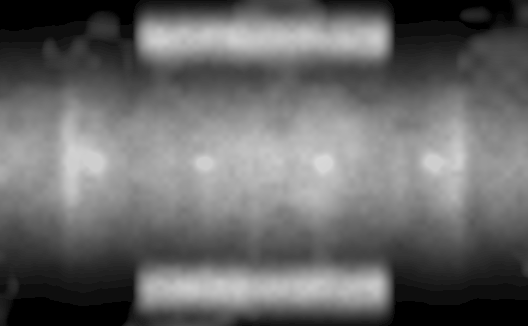
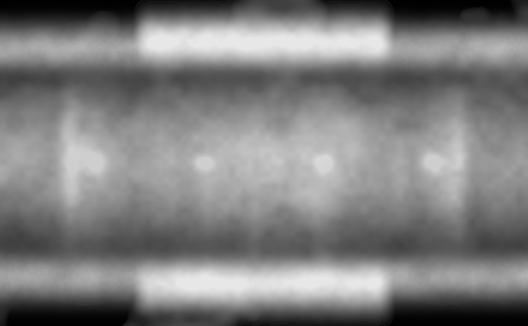
Wear the border and the lettering, pass both gates, and hand the chains contract to Broadcast
The NFL border read as a clean slab: the paint distance field now carries a
ragged edge and graded scuffs, heaviest where the chain crew and players
walk, averaged with its half turn so the half texture still holds the field.
Grime runs along both sidelines, and a turf overlay stands blades up through
every line and each club's name. Field is eleven parts, 39.6 MB of 40.

The field-art types move to FieldArtSpec.swift so verify_scene.swift, which
compiles SceneSpec.swift alone, builds again; it passes 23,376 assertions and
contrast_check passes. docs/actors/field-sideline.md records that Sideline
draws the chains and down box and Broadcast must not.

Claude-Session: https://claude.ai/code/session_01GhgGEfAfuwas1ro6oaf8sP

Changed region(s): [[0.0, 0.0307, 1.0, 0.2454], [0.0, 0.7669, 1.0, 0.9509]]

diff --git a/apple/FantasyEdge/Sources/Stadium/Actors/Field/FieldActor.swift b/apple/FantasyEdge/Sources/Stadium/Actors/Field/FieldActor.swift
@@ -14,8 +14,8 @@ import simd
 /// arrows, limit and coaching lines - costs two draw parts, and the edge is
 /// exact at any distance because it is a threshold, not a blurred mask.
 ///
-/// Draw parts: surround 1, stripes 2, end zones 2, ring 1, paint 2, wear 1,
-/// lettering 1 - ten.
+/// Draw parts: surround 1, stripes 2, end zones 2, ring 1, paint 2,
+/// lettering 1, grass through the paint 1, wear 1 - eleven.
 @MainActor
 final class FieldActor: StadiumActor {
     let name = "field"
@@ -65,7 +65,7 @@ final class FieldActor: StadiumActor {
         wearEntity.isEnabled = false
         // Over the paint as well as the grass: where the turf is trampled the
         // lines are too, and a line as clean at the hash as at the wall is CG.
-        add(wearEntity, order: 5)
+        add(wearEntity, order: 6)
 
         // End zones: club paint over the grass.
         for (team, x0, x1) in [(s.teams.home, -f.endZone, 0.0), (s.teams.away, f.length, f.length + f.endZone)] {
@@ -110,6 +110,18 @@ final class FieldActor: StadiumActor {
         add(white, order: 4)
         add(yellow, order: 4)
 
+        // Grass through the paint: the turf again, over the paint and the
+        // lettering, shown only where blades stand up through them. Over bare
+        // turf it is turf on turf, so it only reads where there is paint.
+        if let through = a.texture("field.turfGrassThrough") {
+            var over = MeshBuilder()
+            over.floor(x0: K.x0, x1: K.x1, z0: -(half + (K.y1 - f.width)), z1: half + (K.y1 - f.width),
+                       y: L.art + 0.002, tile: tile)
+            var m = turf(T.stripeTint[0], T.stripeRoughness[0], albedo, rough, normals[0], T)
+            m.blending = .transparent(opacity: .init(scale: Float(P.grassThrough), texture: StadiumLook.repeating(through)))
+            add(over.entity("paint.grass", m), order: 5)
+        }
+
         // Lettering: each club's name across its end zone, the home name at midfield.
         if let art = f.art, let font = FieldGlyphs.load(art.glyphs) {
             var letters = MeshBuilder()
@@ -118,7 +130,7 @@ final class FieldActor: StadiumActor {
             var m = PhysicallyBasedMaterial()
             m.baseColor = .init(tint: StadiumLook.color(P.white))
             m.roughness = .init(floatLiteral: Float(P.roughness))
-            add(letters.entity("lettering", m), order: 6)
+            add(letters.entity("lettering", m), order: 4)
         }
 
         // The league's maps, loaded once and then handed to the meshes waiting for them.

diff --git a/apple/FantasyEdge/Sources/Stadium/Actors/Field/FieldArt.swift b/apple/FantasyEdge/Sources/Stadium/Actors/Field/FieldArt.swift
@@ -1,53 +1,9 @@
 import Foundation
 import simd
 
-// What the scene says about the painted art that changes per game, and the
-// glyph shapes it is set in. The scene lays it out (fantasyedge/scene.py
-// `field_art`); this file only applies the layout, so the web and Android
-// draw the same letters in the same places.
-
-extension SceneSpec {
-    /// A line of text on the grass. A glyph point (gx, gy), in em units with
-    /// cap height 1, lands at origin + (gx * along + gy * up) * capHeight in
-    /// (x, z) yards.
-    public struct ArtText: Decodable, Equatable, Sendable {
-        public let text: String
-        public let capHeight: Double
-        public let origin: [Double]
-        public let along: [Double]
-        public let up: [Double]
-        public let tint: String
-    }
-
-    public struct EndZoneArt: Decodable, Equatable, Sendable {
-        public let side: String
-        public let text: String
-        public let capHeight: Double
-        public let origin: [Double]
-        public let along: [Double]
-        public let up: [Double]
-        public let tint: String
-
-        var layout: ArtText {
-            ArtText(text: text, capHeight: capHeight, origin: origin, along: along, up: up, tint: tint)
-        }
-    }
-
-    public struct MidfieldArt: Decodable, Equatable, Sendable {
-        public let center: [Double]
-        public let outer: Double
-        public let inner: Double
-        public let tint: String
-        public let text: ArtText?
-    }
-
-    public struct FieldArt: Decodable, Equatable, Sendable {
-        public let glyphs: String
-        public let tracking: Double
-        public let endZones: [EndZoneArt]
-        public let midfield: MidfieldArt
-    }
-}
+// The glyph shapes the field's art is set in, and the one step that applies
+// the scene's layout to them (types in FieldArtSpec.swift), so the web and
+// Android draw the same letters in the same places.
 
 /// The field font: Graduate (SIL OFL 1.1) as triangles, from
 /// assets/actors/field/fonts/glyphs.json.

diff --git a/apple/FantasyEdge/Sources/Stadium/Actors/Field/FieldArtSpec.swift b/apple/FantasyEdge/Sources/Stadium/Actors/Field/FieldArtSpec.swift
@@ -1,0 +1,48 @@
+import Foundation
+
+// What the scene says about the painted art that changes per game
+// (fantasyedge/scene.py `field_art`). Types only, with no RealityKit, so
+// apple/verify_scene.swift can decode a scene with them.
+
+extension SceneSpec {
+    /// A line of text on the grass. A glyph point (gx, gy), in em units with
+    /// cap height 1, lands at origin + (gx * along + gy * up) * capHeight in
+    /// (x, z) yards.
+    public struct ArtText: Decodable, Equatable, Sendable {
+        public let text: String
+        public let capHeight: Double
+        public let origin: [Double]
+        public let along: [Double]
+        public let up: [Double]
+        public let tint: String
+    }
+
+    public struct EndZoneArt: Decodable, Equatable, Sendable {
+        public let side: String
+        public let text: String
+        public let capHeight: Double
+        public let origin: [Double]
+        public let along: [Double]
+        public let up: [Double]
+        public let tint: String
+
+        var layout: ArtText {
+            ArtText(text: text, capHeight: capHeight, origin: origin, along: along, up: up, tint: tint)
+        }
+    }
+
+    public struct MidfieldArt: Decodable, Equatable, Sendable {
+        public let center: [Double]
+        public let outer: Double
+        public let inner: Double
+        public let tint: String
+        public let text: ArtText?
+    }
+
+    public struct FieldArt: Decodable, Equatable, Sendable {
+        public let glyphs: String
+        public let tracking: Double
+        public let endZones: [EndZoneArt]
+        public let midfield: MidfieldArt
+    }
+}

diff --git a/apple/verify_scene.swift b/apple/verify_scene.swift
@@ -15,6 +15,7 @@
 //         apple/FantasyEdge/Sources/Stadium/SceneSpec.swift \
 //         apple/FantasyEdge/Sources/Stadium/SceneLook.swift \
 //         apple/FantasyEdge/Sources/Stadium/Actors/*/*Look.swift \
+//         apple/FantasyEdge/Sources/Stadium/Actors/Field/FieldArtSpec.swift \
 //         apple/FantasyEdge/Sources/Stadium/SceneMath.swift \
 //         apple/verify_scene.swift && /tmp/verify-scene /tmp/scenes/*.json
 //

diff --git a/apple/FantasyEdge/Sources/Stadium/Actors/Field/FieldLook.swift b/apple/FantasyEdge/Sources/Stadium/Actors/Field/FieldLook.swift
@@ -41,6 +41,8 @@ extension SceneSpec.Look {
         public let roughness: Double
         public let threshold: Double
         public let endZoneOpacity: Double
+        /// How strongly blades show through paint and lettering.
+        public let grassThrough: Double
     }
 
     public struct FieldLift: Decodable, Equatable, Sendable {

diff --git a/tools/blender/field/make_markings.py b/tools/blender/field/make_markings.py
@@ -444,9 +444,52 @@ def distance_fields(p: Paint):
         else:
             splat_mesh(it["triangles"], field)
 
+    wear = paint_wear(xs, ys, geo_hash=None)
     for c in fields:
-        fields[c] = np.clip(fields[c], -rng_yd, rng_yd)
+        fields[c] = np.clip(fields[c] + wear, -rng_yd, rng_yd)
     return fields
+
+
+def _value_noise(X, Y, scale, seed):
+    r = np.random.default_rng(seed)
+    table = r.random((256, 256))
+    gx, gy = X / scale, Y / scale
+    ix, iy = np.floor(gx).astype(int), np.floor(gy).astype(int)
+    fx, fy = gx - ix, gy - iy
+    ux, uy = fx * fx * (3 - 2 * fx), fy * fy * (3 - 2 * fy)
+    at = lambda i, j: table[j % 256, i % 256]
+    return (at(ix, iy) * (1 - ux) + at(ix + 1, iy) * ux) * (1 - uy) + \
+        (at(ix, iy + 1) * (1 - ux) + at(ix + 1, iy + 1) * ux) * uy
+
+
+def paint_wear(xs, ys, geo_hash=None):
+    """How much each texel's paint has worn, as yards taken off its distance.
+
+    Two things a painted line on a used field has that a clean one does not:
+    a ragged edge where the roller met grass (fine noise, about an inch
+    either way), and scuffed-through patches where players and the chain
+    crew walk - along both sidelines, over the border and between the
+    hashes. Only negative scuffs cut holes, so a thin line thins and breaks
+    where the traffic is, and a six-foot border goes patchy rather than
+    staying a slab. Averaged with its half turn, so the field stays
+    symmetric and the half texture still holds all of it.
+    """
+    X, Y = np.meshgrid(xs, ys)
+    edge = (_value_noise(X, Y, 0.09, 71) - 0.5) * 2 * (1.0 * IN) + (_value_noise(X, Y, 0.35, 72) - 0.5) * 2 * (0.8 * IN)
+    band = np.exp(-0.5 * (np.minimum(np.abs(Y + 1.0), np.abs(Y - W - 1.0)) / 2.2) ** 2)      # sidelines and border
+    middle = np.exp(-0.5 * ((Y - W / 2) / 9.0) ** 2) * (0.5 + 0.5 * np.exp(-0.5 * ((X - 50) / 25) ** 2))
+    traffic = np.clip(band + 0.7 * middle, 0, 1)
+    speck = _value_noise(X, Y, 0.22, 73)
+    patch = _value_noise(X, Y, 1.4, 74)
+    scuff = np.clip((speck - 0.58) / 0.25, 0, 1) * np.clip((patch - 0.35) / 0.4, 0, 1)
+    # graded: a light scuff thins a line by an inch or two, a hard one goes
+    # through even the middle of a six-foot border
+    ends = 0.45 * np.exp(-0.5 * (np.minimum(np.abs(X + 11.0), np.abs(X - 111.0)) / 1.8) ** 2)
+    wear = edge - (scuff ** 2) * np.clip(traffic + ends, 0, 1) * (28.0 * IN)
+    return (wear + wear[::-1, ::-1]) / 2
+
+
+
 
 
 def encode(p: Paint, league: str):

diff --git a/tools/blender/field/make_field_maps.py b/tools/blender/field/make_field_maps.py
@@ -222,7 +222,11 @@ def engine_maps(league: str):
     """
     img = common.read_image(common.FIELD_OUT / "maps" / league / "field_maps.png")
     macro, wear = img[..., 0], img[..., 1]
-    opacity = np.clip(0.62 * wear ** 0.9 + 0.55 * np.clip(0.5 - macro, 0, 1), 0, 0.8)
+    X, Y = grid(4)
+    # the sideline is where the chain crew, cameras and substitutes walk all night
+    band = np.exp(-0.5 * (np.minimum(np.abs(Y + 2.0), np.abs(Y - W - 2.0)) / 3.0) ** 2)
+    grime = band * (0.55 + 0.45 * fbm(X, Y, [0.8, 2.5, 6.0], 91))
+    opacity = np.clip(0.62 * wear ** 0.9 + 0.55 * np.clip(0.5 - macro, 0, 1) + 0.45 * grime, 0, 0.8)
     common.write_png(common.FIELD_OUT / "maps" / league / "variation_opacity.png", srgb(opacity))
 
 
@@ -238,6 +242,19 @@ def split_orm():
         common.write_png(common.FIELD_OUT / "turf" / variant / f"{stem}_occlusion.png", orm[..., 0])
 
 
+def grass_through():
+    """Where blades stand up through paint: the low-carry texels of the turf's
+    paint breakup, as coverage for a turf overlay drawn over the paint. 512 px,
+    tiling with the turf, sRGB-encoded linear coverage."""
+    src = common.FIELD_OUT / "turf" / "natural" / "paint_breakup.png"
+    if not src.exists():
+        return
+    carry = common.read_image(src)[..., 0]
+    carry = carry.reshape(512, 2, 512, 2).mean(axis=(1, 3)) if carry.shape[0] == 1024 else carry
+    cover = np.clip((0.62 - carry) / 0.3, 0, 1) ** 1.3
+    common.write_png(common.FIELD_OUT / "turf" / "natural" / "paint_grassthrough.png", srgb(cover))
+
+
 def main():
     out = {}
     for league in rules.LEAGUES:
@@ -245,6 +262,7 @@ def main():
         mow_patterns(league)
         engine_maps(league)
     split_orm()
+    grass_through()
     divots()
     paint_breakup()
     print("MAPS", out)

diff --git a/tools/blender/field/manifest.py b/tools/blender/field/manifest.py
@@ -81,7 +81,7 @@ def main():
     headset = {"turf/natural/turf_natural_with_albedo.png", "turf/natural/turf_natural_with_normal.png",
                "turf/natural/turf_natural_against_normal.png", "turf/natural/turf_natural_with_roughness.png",
                "markings/nfl/paint_white_half.png", "markings/nfl/paint_yellow_half.png",
-               "maps/nfl/variation_opacity.png"}
+               "maps/nfl/variation_opacity.png", "turf/natural/paint_grassthrough.png"}
     loaded = {  # what the visionOS field binds (design/tokens.json visual.field)
         "headset": [e for e in entries if e["path"] in headset],
         # the fuller set a shader-capable client (web, Android) may bind instead

diff --git a/docs/actors/field-sideline.md b/docs/actors/field-sideline.md
@@ -67,3 +67,19 @@ Owner: the Field & Sideline specialist. Shots are taken with `tools/blender/fiel
   3. The NFL's 6 ft white border fills the lower frame of `field-level` as a clean slab.
   4. Broadcast still owns its old chains entity, so there may be two chain sets. It needs a Wave 2 check.
   5. Gestures, reduce motion and frame time are unverified: simulator stills only.
+
+## Contract: the chains and the down box belong to Field & Sideline
+- **The sideline actor draws the chain crew.** That is the chain set with its forward rod on `scene.lasers[kind=lineToGain]`, the down box at the scrimmage laser showing `status.down`, and the college ground markers. It rebuilds them when the line to gain, the scrimmage spot or the down changes (`SidelineActor.buildCrew`), on `field.props.chains.side`.
+- **Broadcast must not draw physical chains, down markers or ground markers.** Its old `chains` entity in `BroadcastActor.swift` is to be removed in Wave 2.
+- **Broadcast still owns the light:** the scrimmage and line-to-gain lasers, the beacon and the trails.
+- **Needing the crew's position:** read it from the scene, the same way the sideline actor does. Actors never call each other.
+
+## Iteration 5 (the coordinator's list)
+- **Gates:**
+  - `tools/blender/field/gates.sh` runs `verify_scene.swift` (15 scenes, 23,376 assertions) and `contrast_check.py`. Both pass.
+  - The field-art types moved to `Actors/Field/FieldArtSpec.swift`, with no RealityKit, so the verifier compiles `SceneSpec.swift`.
+- **NFL border slab:**
+  - The paint distance field now bakes in a ragged edge of about 1 in and graded scuffs, which thin a line lightly or punch through the middle of the border.
+  - Scuffs weight to the sidelines, the border, the end lines and between the hashes, averaged with their half turn so the field stays symmetric.
+  - The variation map adds grime along both sidelines.
+- **Lettering and paint:** a turf overlay (`paint.grass`) lies over all paint and the end-zone names, showing blades only where the turf's paint breakup is low. The lettering now draws under the wear layer. Field: 11 parts; textures as loaded 39.6 MB of 40.
